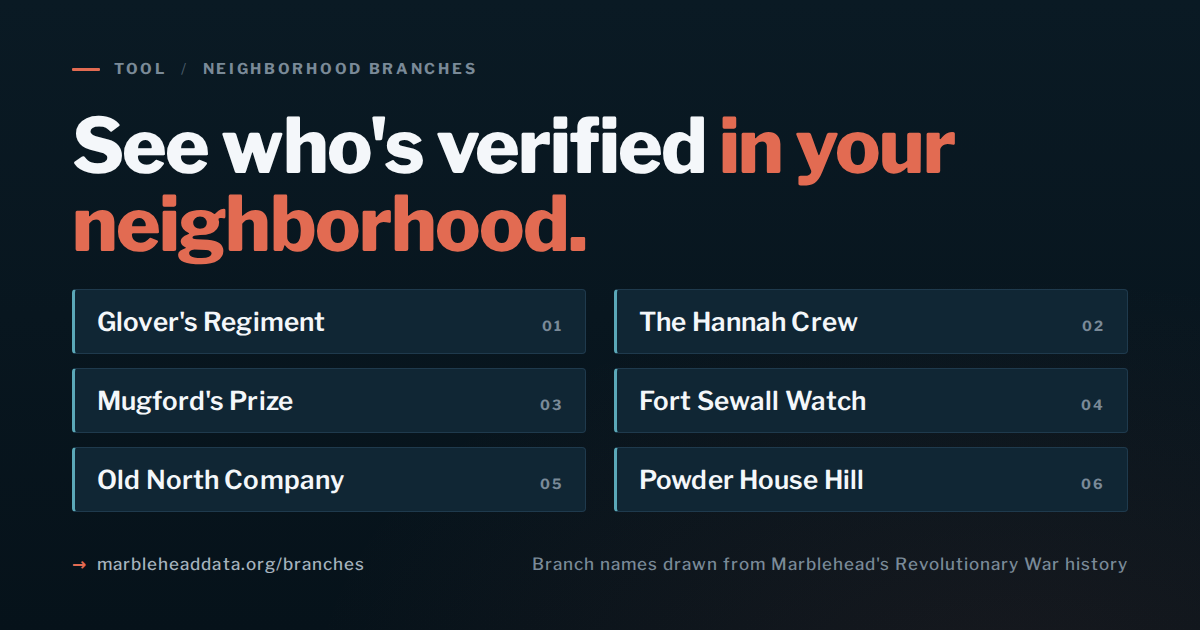
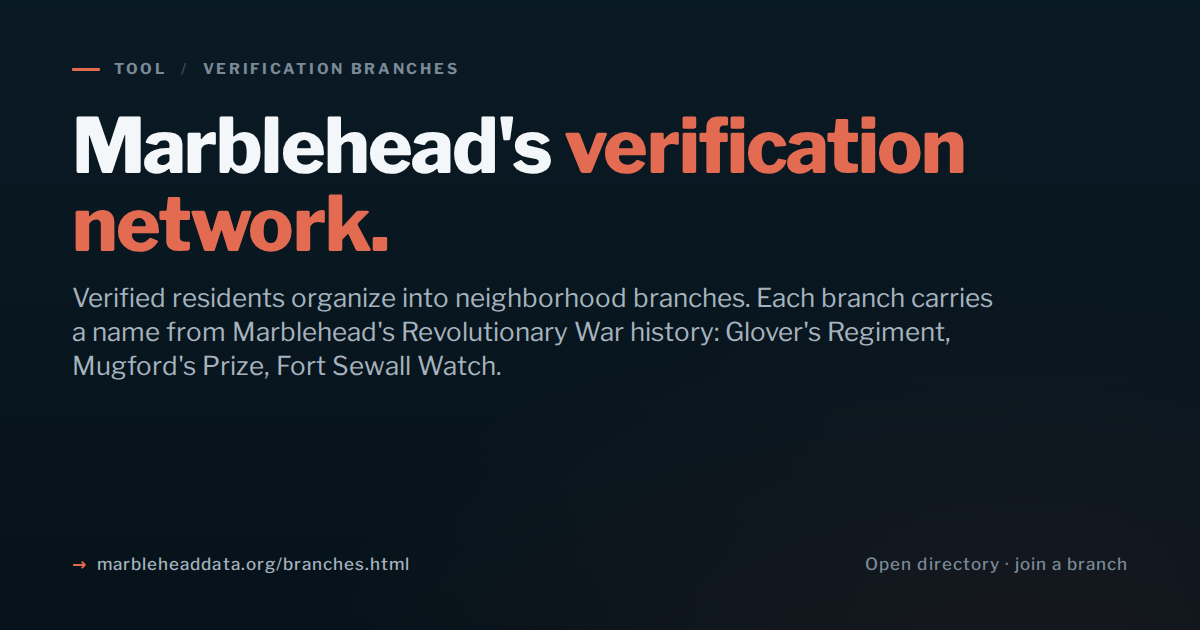
branches v4: stop overpromising 'your neighborhood', match what the page actually does
The v3 headline 'See who's verified in your neighborhood.' implied
two things the page does not deliver:
1. A 'your neighborhood' filter — there is none. The page is an open
   directory of all branches; if you are verified, your own branch
   gets a (your branch) badge.
2. Showing who specifically is verified — the page only shows branch
   names plus resident counts, not individual identities.

Also the underlying data may be 0 or small while the network is new,
so a card showing 6 fake numbered chips overstates the directory.

v4 is typography-led with an honest framing: 'Marblehead's verification
network.' subhead explaining that residents organize into named
branches drawn from Revolutionary War history, with three real names
(Glover's Regiment, Mugford's Prize, Fort Sewall Watch) as authentic
flavor.

Updated branches.html frontmatter og_title and og_description to match
so FB pulls the same honest language.

diff --git a/og-cards/branches.html b/og-cards/branches.html
@@ -3,37 +3,6 @@
 <head>
   <meta charset="utf-8">
   <link rel="stylesheet" href="_shared.css">
-  <style>
-    .roster {
-      display: grid;
-      grid-template-columns: repeat(2, 1fr);
-      gap: 14px 28px;
-      margin-top: 26px;
-      max-width: 1056px;
-    }
-    .chip {
-      background: var(--bg-lift);
-      border: 1px solid var(--rule);
-      border-left: 3px solid var(--c-teal);
-      border-radius: 4px;
-      padding: 16px 22px;
-      font-size: 26px;
-      font-weight: 600;
-      color: var(--text);
-      letter-spacing: 0.005em;
-      display: flex;
-      align-items: baseline;
-      justify-content: space-between;
-      gap: 18px;
-    }
-    .chip .num {
-      font-size: 14px;
-      font-weight: 700;
-      letter-spacing: 0.16em;
-      color: var(--text-sub);
-      font-variant-numeric: tabular-nums;
-    }
-  </style>
 </head>
 <body>
   <main class="card">
@@ -41,24 +10,17 @@
       <span class="mark"></span>
       <span>Tool</span>
       <span class="sep">/</span>
-      <span>Neighborhood branches</span>
+      <span>Verification branches</span>
     </header>
 
     <div>
-      <h1 class="card-headline">See who's verified <em>in your neighborhood.</em></h1>
-      <div class="roster">
-        <div class="chip"><span>Glover's Regiment</span><span class="num">01</span></div>
-        <div class="chip"><span>The Hannah Crew</span><span class="num">02</span></div>
-        <div class="chip"><span>Mugford's Prize</span><span class="num">03</span></div>
-        <div class="chip"><span>Fort Sewall Watch</span><span class="num">04</span></div>
-        <div class="chip"><span>Old North Company</span><span class="num">05</span></div>
-        <div class="chip"><span>Powder House Hill</span><span class="num">06</span></div>
-      </div>
+      <h1 class="card-headline">Marblehead's <em>verification network.</em></h1>
+      <p class="card-subhead">Verified residents organize into neighborhood branches. Each branch carries a name from Marblehead's Revolutionary War history: Glover's Regiment, Mugford's Prize, Fort Sewall Watch.</p>
     </div>
 
     <footer class="card-foot">
-      <span class="url">marbleheaddata.org/branches</span>
-      <span>Branch names drawn from Marblehead's Revolutionary War history</span>
+      <span class="url">marbleheaddata.org/branches.html</span>
+      <span>Open directory · join a branch</span>
     </footer>
   </main>
 </body>

diff --git a/branches.html b/branches.html
@@ -1,8 +1,8 @@
 ---
 title: Branches
 body_class: branches-page
-og_title: "How Marblehead residents verify each other"
-og_description: "Verified residents cluster into neighborhood branches through the neighbor invitation network. Each branch is named for a Marblehead Revolutionary War figure."
+og_title: "Marblehead's verification network"
+og_description: "Verified residents organize into neighborhood branches. Each branch carries a name from Marblehead's Revolutionary War history. Open directory: see the branches, see counts, join one."
 og_image: /assets/og/branches.png
 og_url: https://marbleheaddata.org/branches.html
 ---
